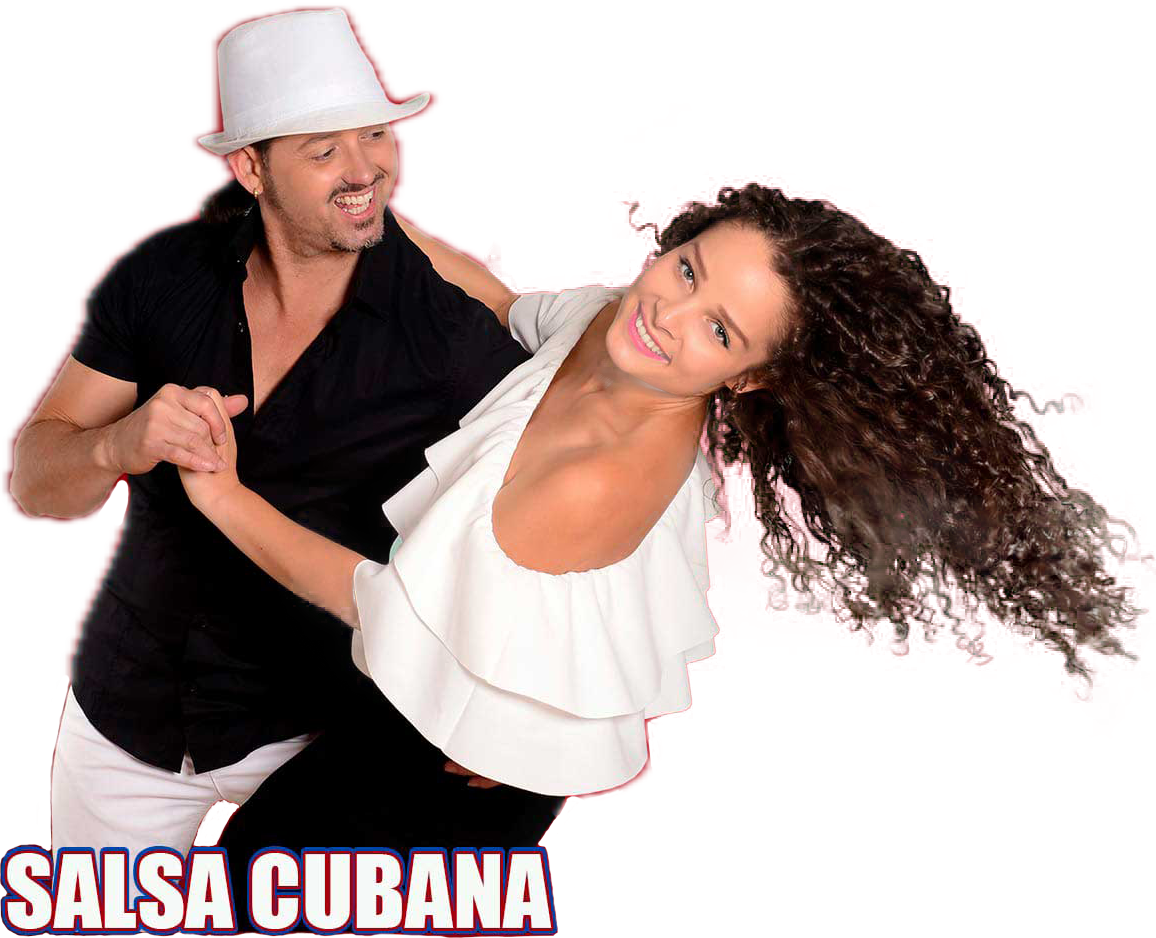
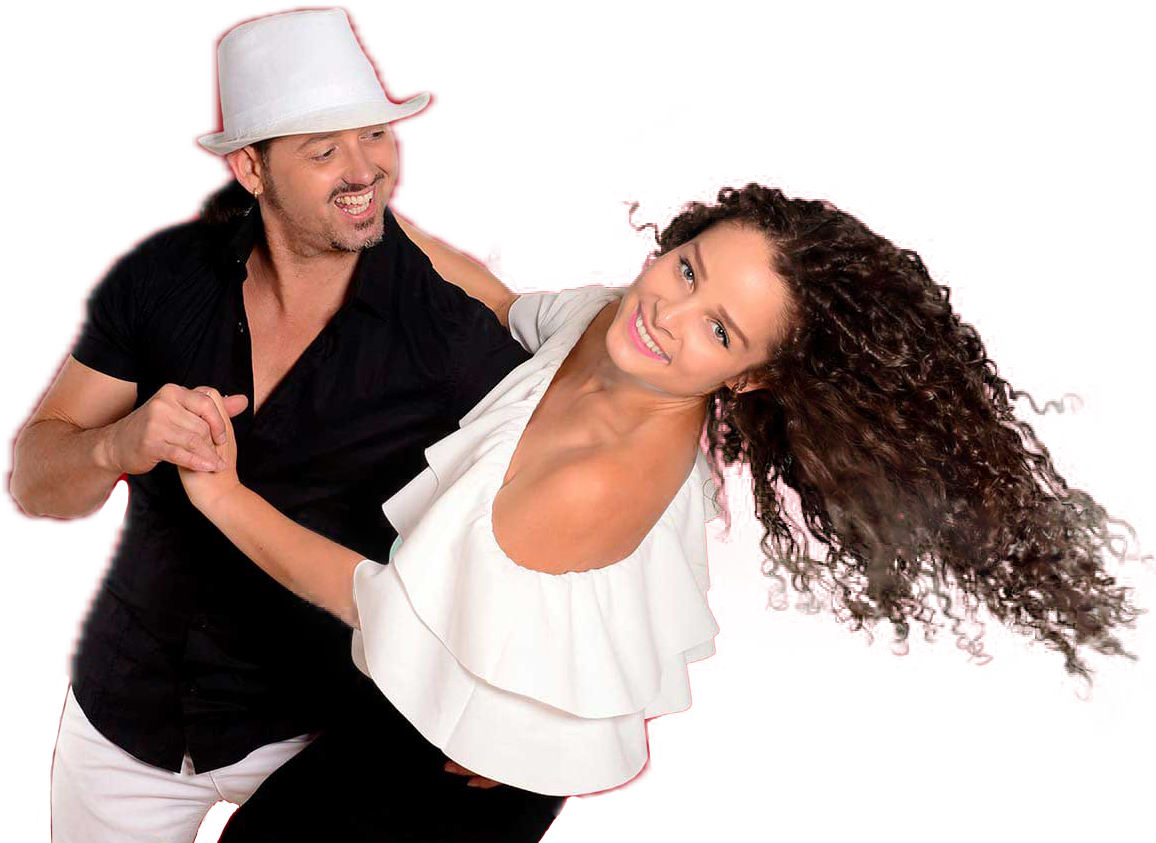
Änderungen Navigation & Hero-Bereich

diff --git a/resources/views/livewire/frontend/home-front-page.blade.php b/resources/views/livewire/frontend/home-front-page.blade.php
@@ -1,23 +1,28 @@
 <section>
 
+<style>
+@media (min-width: 1024px) {
+    .hero-grid { grid-template-columns: 1fr 2fr; }
+    .kacheln-grid { grid-template-columns: repeat(3, 1fr) !important; }
+}
+</style>
     <div class="relative min-h-screen">
         <div style="background: radial-gradient(circle, #b50314, #270001); opacity: 1;" class="absolute inset-0 -z-10 h-full w-full object-cover">
         </div>
 
-        <div class="mx-auto grid min-h-screen max-w-7xl grid-cols-1 items-center gap-8 px-6 pb-28 pt-16 sm:py-20 lg:grid-cols-3 lg:px-8">
+        <div class="hero-grid mx-auto grid min-h-screen max-w-screen-2xl grid-cols-1 items-center gap-8 px-6 pb-28 pt-16 sm:py-20 lg:px-8">
             <div class="flex justify-center lg:justify-start">
                 <img src="{{ asset('images/header.png') }}" alt="" class="max-h-[70vh] w-full max-w-sm object-contain lg:max-w-2xl">
             </div>
-            <div class="text-center lg:col-span-2">
-                <div class="mx-auto max-w-3xl">
-                    <h1 class="text-xl font-semibold leading-tight text-white sm:text-2xl lg:text-3xl">
+            <div class="text-center">
+                <div class="mx-auto max-w-5xl">
+                    <h1 class="text-3xl font-semibold leading-tight text-white sm:text-4xl lg:text-5xl">
                         Salsa & Bachata für Paare in Speyer –
-                        <span class="mt-3 block text-lg font-normal leading-snug sm:text-xl lg:text-2xl">für Anfänger, ganz ohne Vorkenntnisse.</span>
+                        <span class="mt-4 block text-2xl font-normal leading-snug sm:text-3xl lg:text-4xl">für Anfänger, ganz ohne Vorkenntnisse.</span>
                     </h1>
-                    <a href="{{ route('frontend.course.info') }}" class="mt-8 inline-flex items-center justify-center rounded-md bg-white px-5 py-3 text-sm font-semibold text-red-700 shadow-sm hover:bg-neutral-100 focus-visible:outline focus-visible:outline-2 focus-visible:outline-offset-2 focus-visible:outline-white">Wöchentliches Tanzprogramm</a>
                 </div>
 
-                <div class="mt-8 grid grid-cols-1 gap-4 text-center sm:grid-cols-3">
+                <div class="kacheln-grid" style="display: grid; grid-template-columns: 1fr; gap: 1rem; margin-top: 2rem;">
                     <div class="rounded-md bg-white p-4 text-neutral-900 shadow-sm">
                         <h2 class="text-base font-semibold">Anfänger-Tanzkurse</h2>
                         <div class="my-3 border-t border-neutral-200"></div>
@@ -116,7 +121,7 @@
                                 <p class="mt-5 line-clamp-3 text-sm leading-6 text-neutral-600">{{ $category->short_text }}
                                 </p>
                             </div>
-                        </div> 
+                        </div>
                     </article>
                 @endforeach
             </div>

diff --git a/app/Livewire/FrontendTopNavigation.php b/app/Livewire/FrontendTopNavigation.php
@@ -34,6 +34,24 @@ class FrontendTopNavigation extends Component
                     'position' => $category->id,
                 ];
             })->sortBy('position')
+            ->values();
+
+        $categoryPositions = $categories->pluck('position', 'label');
+        $ruedaPosition = $categoryPositions->get('Rueda de Casino');
+        $ladyStylePosition = $categoryPositions->get('Lady Style');
+
+        $categories = $categories
+            ->sortBy(function ($category) use ($ruedaPosition, $ladyStylePosition) {
+                if ($category['label'] === 'Rueda de Casino') {
+                    return $ladyStylePosition ?? $category['position'];
+                }
+
+                if ($category['label'] === 'Lady Style') {
+                    return $ruedaPosition ?? $category['position'];
+                }
+
+                return $category['position'];
+            })
             ->values()
             ->toArray();
 
@@ -65,7 +83,7 @@ class FrontendTopNavigation extends Component
                 'position' => 1,
             ],
             [
-                "label" => 'Kurse',
+                "label" => 'Tanzkurse',
                 "submenu" => collect($categories),
                 'position' => 2,
             ],
@@ -114,8 +132,24 @@ class FrontendTopNavigation extends Component
                 'position' => 6,
             ],
             [
-                "label" => 'Gutscheine',
-                "link" => route('frontend.coupon', 'gutsheine'),
+                "label" => 'Infos',
+                "submenu" => [
+                    [
+                        "label" => 'Preise',
+                        "link" => route('frontend.preise'),
+                        'position' => 1,
+                    ],
+                    [
+                        "label" => 'Gutscheine',
+                        "link" => route('frontend.coupon'),
+                        'position' => 2,
+                    ],
+                    [
+                        "label" => 'FAQ',
+                        "link" => route('frontend.faq'),
+                        'position' => 3,
+                    ],
+                ],
                 'position' => 7,
             ],
             [

diff --git a/database/migrations/2026_07_07_000000_create_faq_page.php b/database/migrations/2026_07_07_000000_create_faq_page.php
@@ -1,0 +1,63 @@
+<?php
+
+use Illuminate\Database\Migrations\Migration;
+use Illuminate\Support\Facades\DB;
+
+return new class extends Migration
+{
+    public function up(): void
+    {
+        $existingPage = DB::table('pages')->where('identifier', 'faq')->first();
+
+        if (! $existingPage) {
+            $pageId = DB::table('pages')->insertGetId([
+                'identifier' => 'faq',
+                'name' => 'FAQ',
+                'slug' => 'faq',
+                'body' => '<p>Hier findest du bald Antworten auf häufige Fragen.</p>',
+                'status' => true,
+                'canDelete' => true,
+                'created_at' => now(),
+                'updated_at' => now(),
+            ]);
+        } else {
+            $pageId = $existingPage->id;
+        }
+
+        $hasHeader = DB::table('headers')
+            ->where('headerable_type', 'App\Models\Page')
+            ->where('headerable_id', $pageId)
+            ->exists();
+
+        if (! $hasHeader) {
+            DB::table('headers')->insert([
+                'mediaType' => 'image',
+                'caption' => true,
+                'overlay' => true,
+                'overlayColor' => '#b51a00',
+                'textColor' => '#ffffff',
+                'overlayOpacity' => '100',
+                'headerable_type' => 'App\Models\Page',
+                'headerable_id' => $pageId,
+                'created_at' => now(),
+                'updated_at' => now(),
+            ]);
+        }
+    }
+
+    public function down(): void
+    {
+        $page = DB::table('pages')->where('identifier', 'faq')->first();
+
+        if (! $page) {
+            return;
+        }
+
+        DB::table('headers')
+            ->where('headerable_type', 'App\Models\Page')
+            ->where('headerable_id', $page->id)
+            ->delete();
+
+        DB::table('pages')->where('id', $page->id)->delete();
+    }
+};

diff --git a/routes/web.php b/routes/web.php
@@ -18,6 +18,7 @@ use App\Livewire\Frontend\Event\EventSingle;
 use App\Livewire\Frontend\HomeFrontPage;
 use App\Livewire\Frontend\Page\CouponPage;
 use App\Livewire\Frontend\Page\PricePage;
+use App\Livewire\Frontend\Page\FaqPage;
 use App\Livewire\Frontend\Page\ContactPage;
 use App\Livewire\Frontend\Page\PrivateLessonPage;
 use App\Livewire\Frontend\Page\TeamPage;
@@ -48,6 +49,7 @@ Route::get('/forgot-password', ForgotPassword::class)->middleware('guest')->name
 Route::get('/', HomeFrontPage::class)->name('frontend.home');
 Route::get('/team', TeamPage::class)->name('frontend.team');
 Route::get('/preise', PricePage::class)->name('frontend.preise');
+Route::get('/faq', FaqPage::class)->name('frontend.faq');
 Route::get('/kontakt', ContactPage::class)->name('frontend.kontakt');
 Route::get('/gutsheine', CouponPage::class)->name('frontend.coupon');
 Route::get('/betribsferien', VacationPage::class)->name('frontend.vacation');

diff --git a/resources/views/components/contact.blade.php b/resources/views/components/contact.blade.php
@@ -1,3 +1,10 @@
+<a href="{{ route('frontend.course.info') }}"
+    style="left: 1.5rem;"
+    class="fixed bottom-6 z-50 w-12 h-12 bg-red-500 rounded-full shadow-lg flex items-center justify-center hover:bg-red-600 transition-colors duration-300"
+    aria-label="Kursuebersicht oeffnen">
+    <x-icons.calendar class="w-6 h-6 text-white" />
+</a>
+
 <div class="fixed bottom-6 right-6">
     <div class="relative group">
         <div

diff --git a/app/Livewire/Frontend/Page/FaqPage.php b/app/Livewire/Frontend/Page/FaqPage.php
@@ -1,0 +1,13 @@
+<?php
+
+namespace App\Livewire\Frontend\Page;
+
+use App\Traits\HasPage;
+use Livewire\Component;
+
+class FaqPage extends Component
+{
+    use HasPage;
+
+    protected $identifier = 'faq';
+}

diff --git a/resources/views/livewire/frontend/page/faq-page.blade.php b/resources/views/livewire/frontend/page/faq-page.blade.php
@@ -1,0 +1,7 @@
+<div>
+    <x-hero :title="$page->name" :header="$page->header" />
+
+    <x-container>
+        {!! $page->body !!}
+    </x-container>
+</div>
